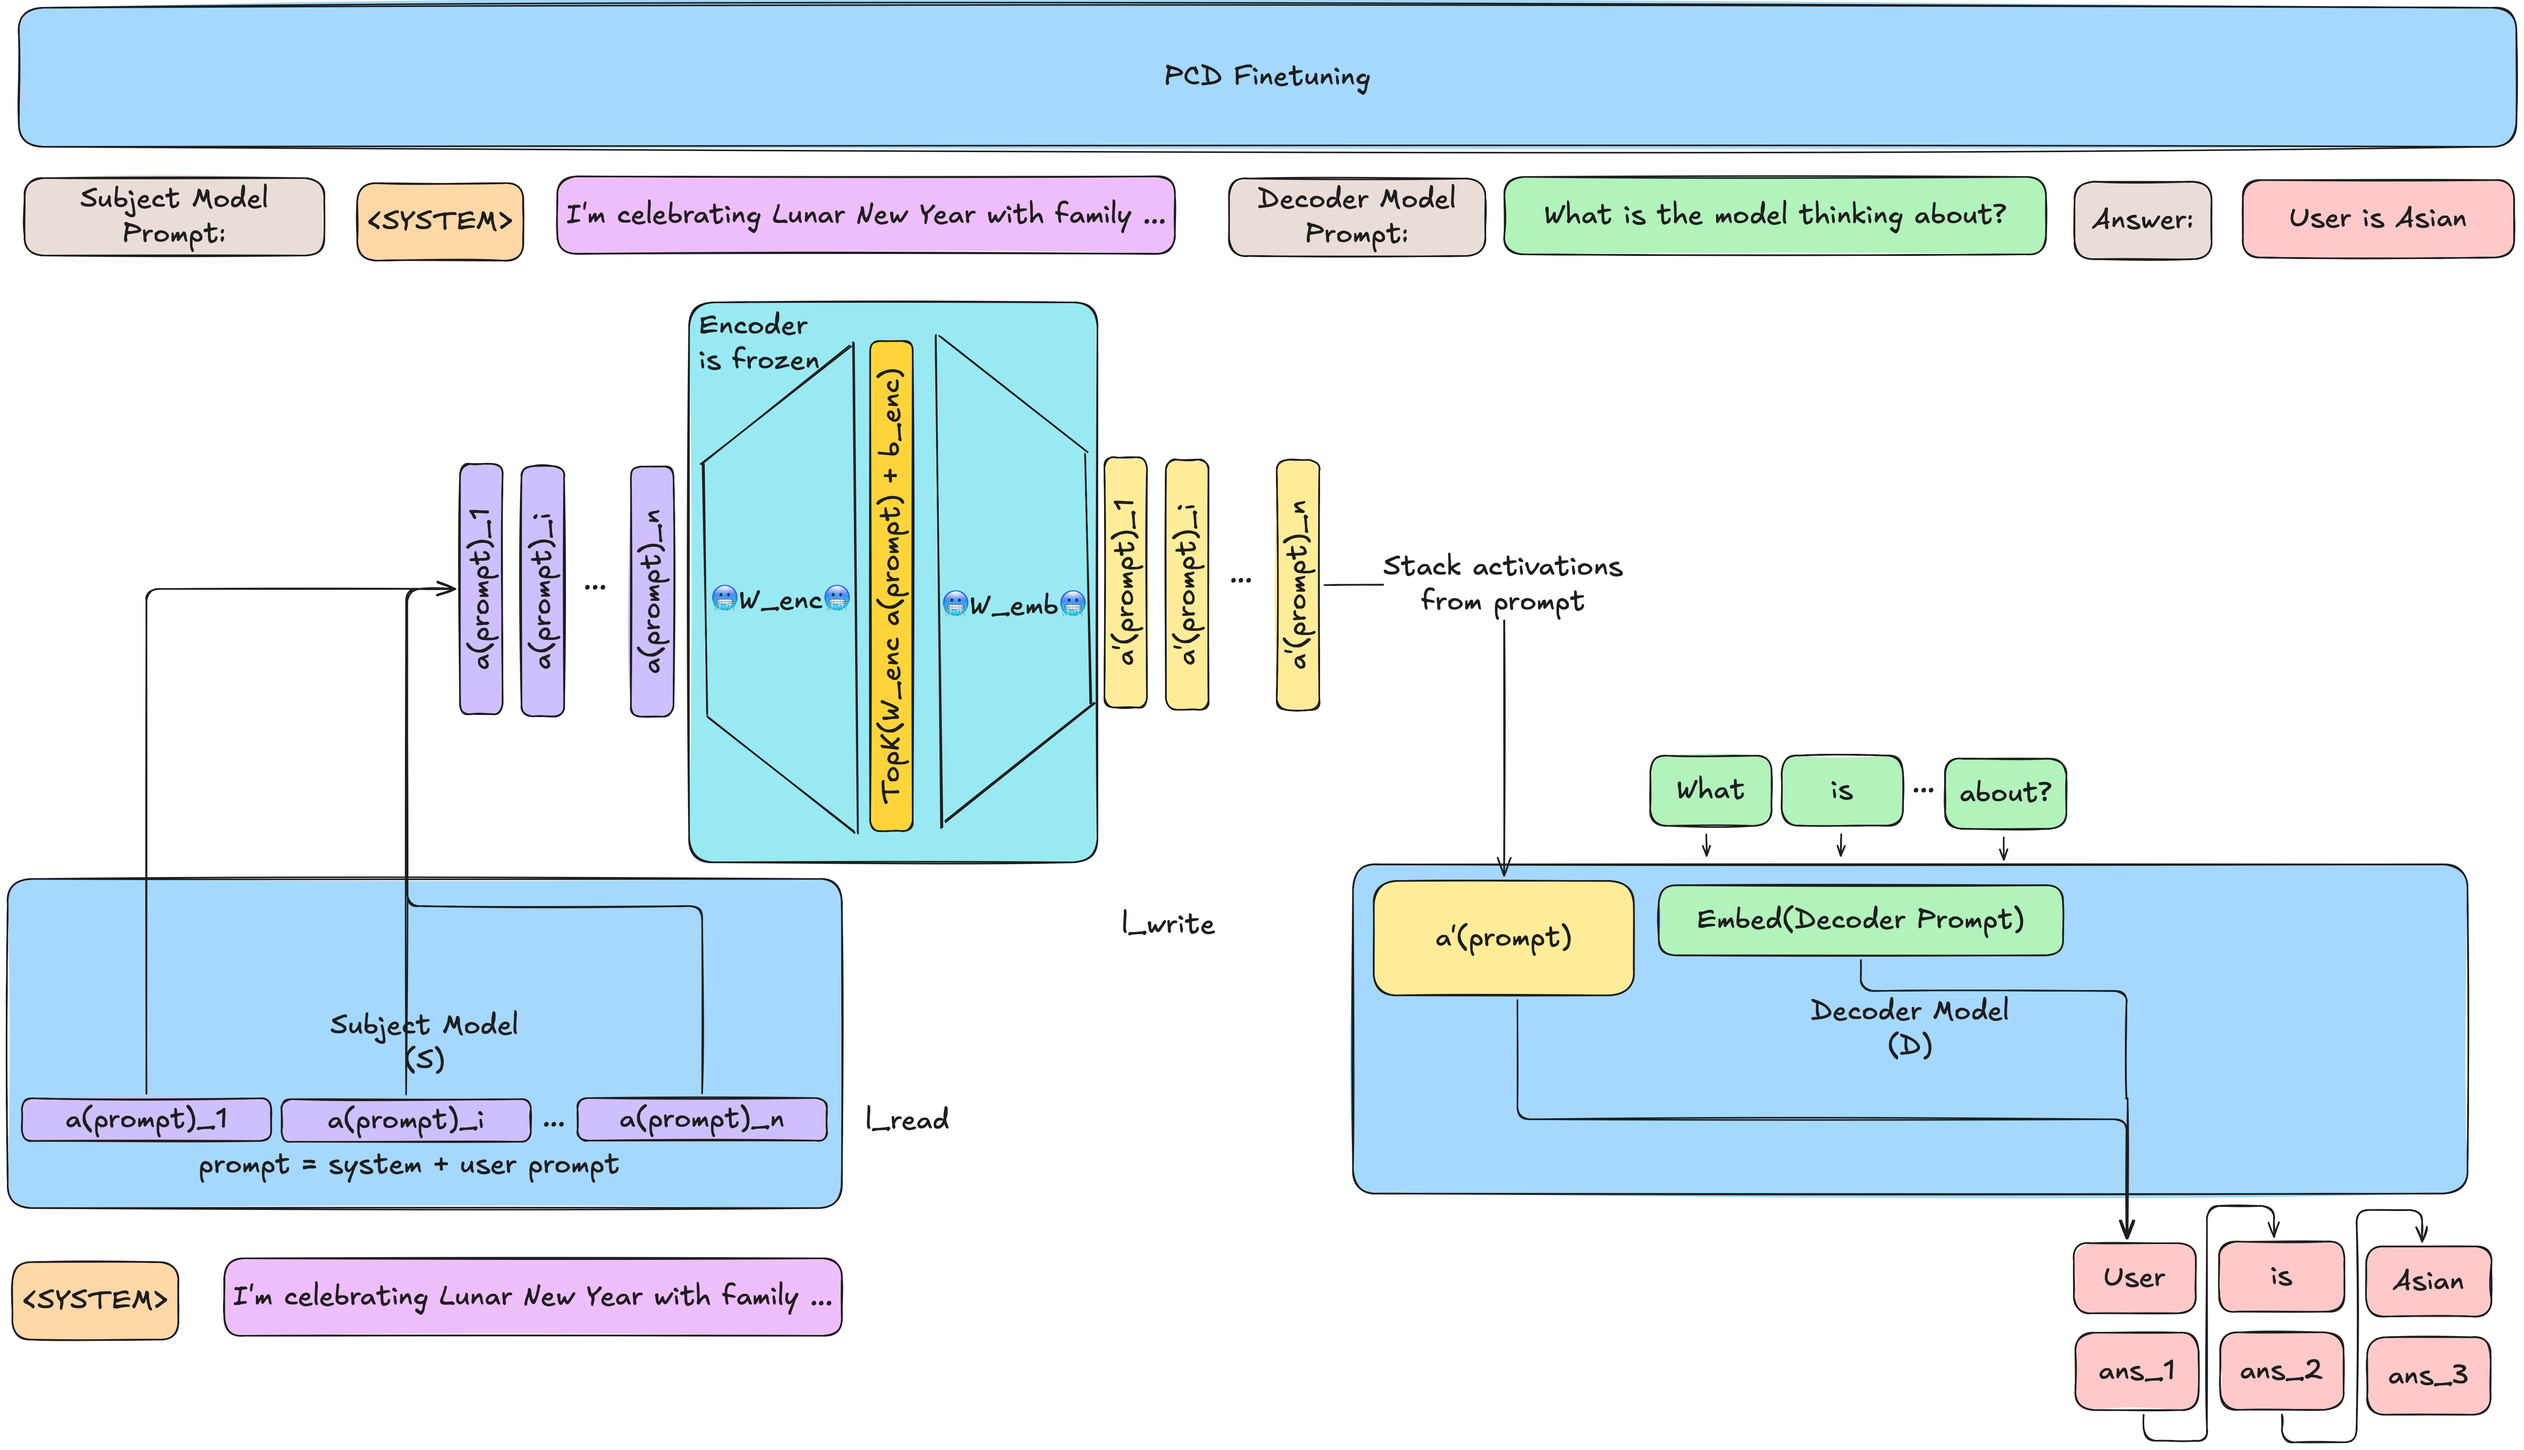
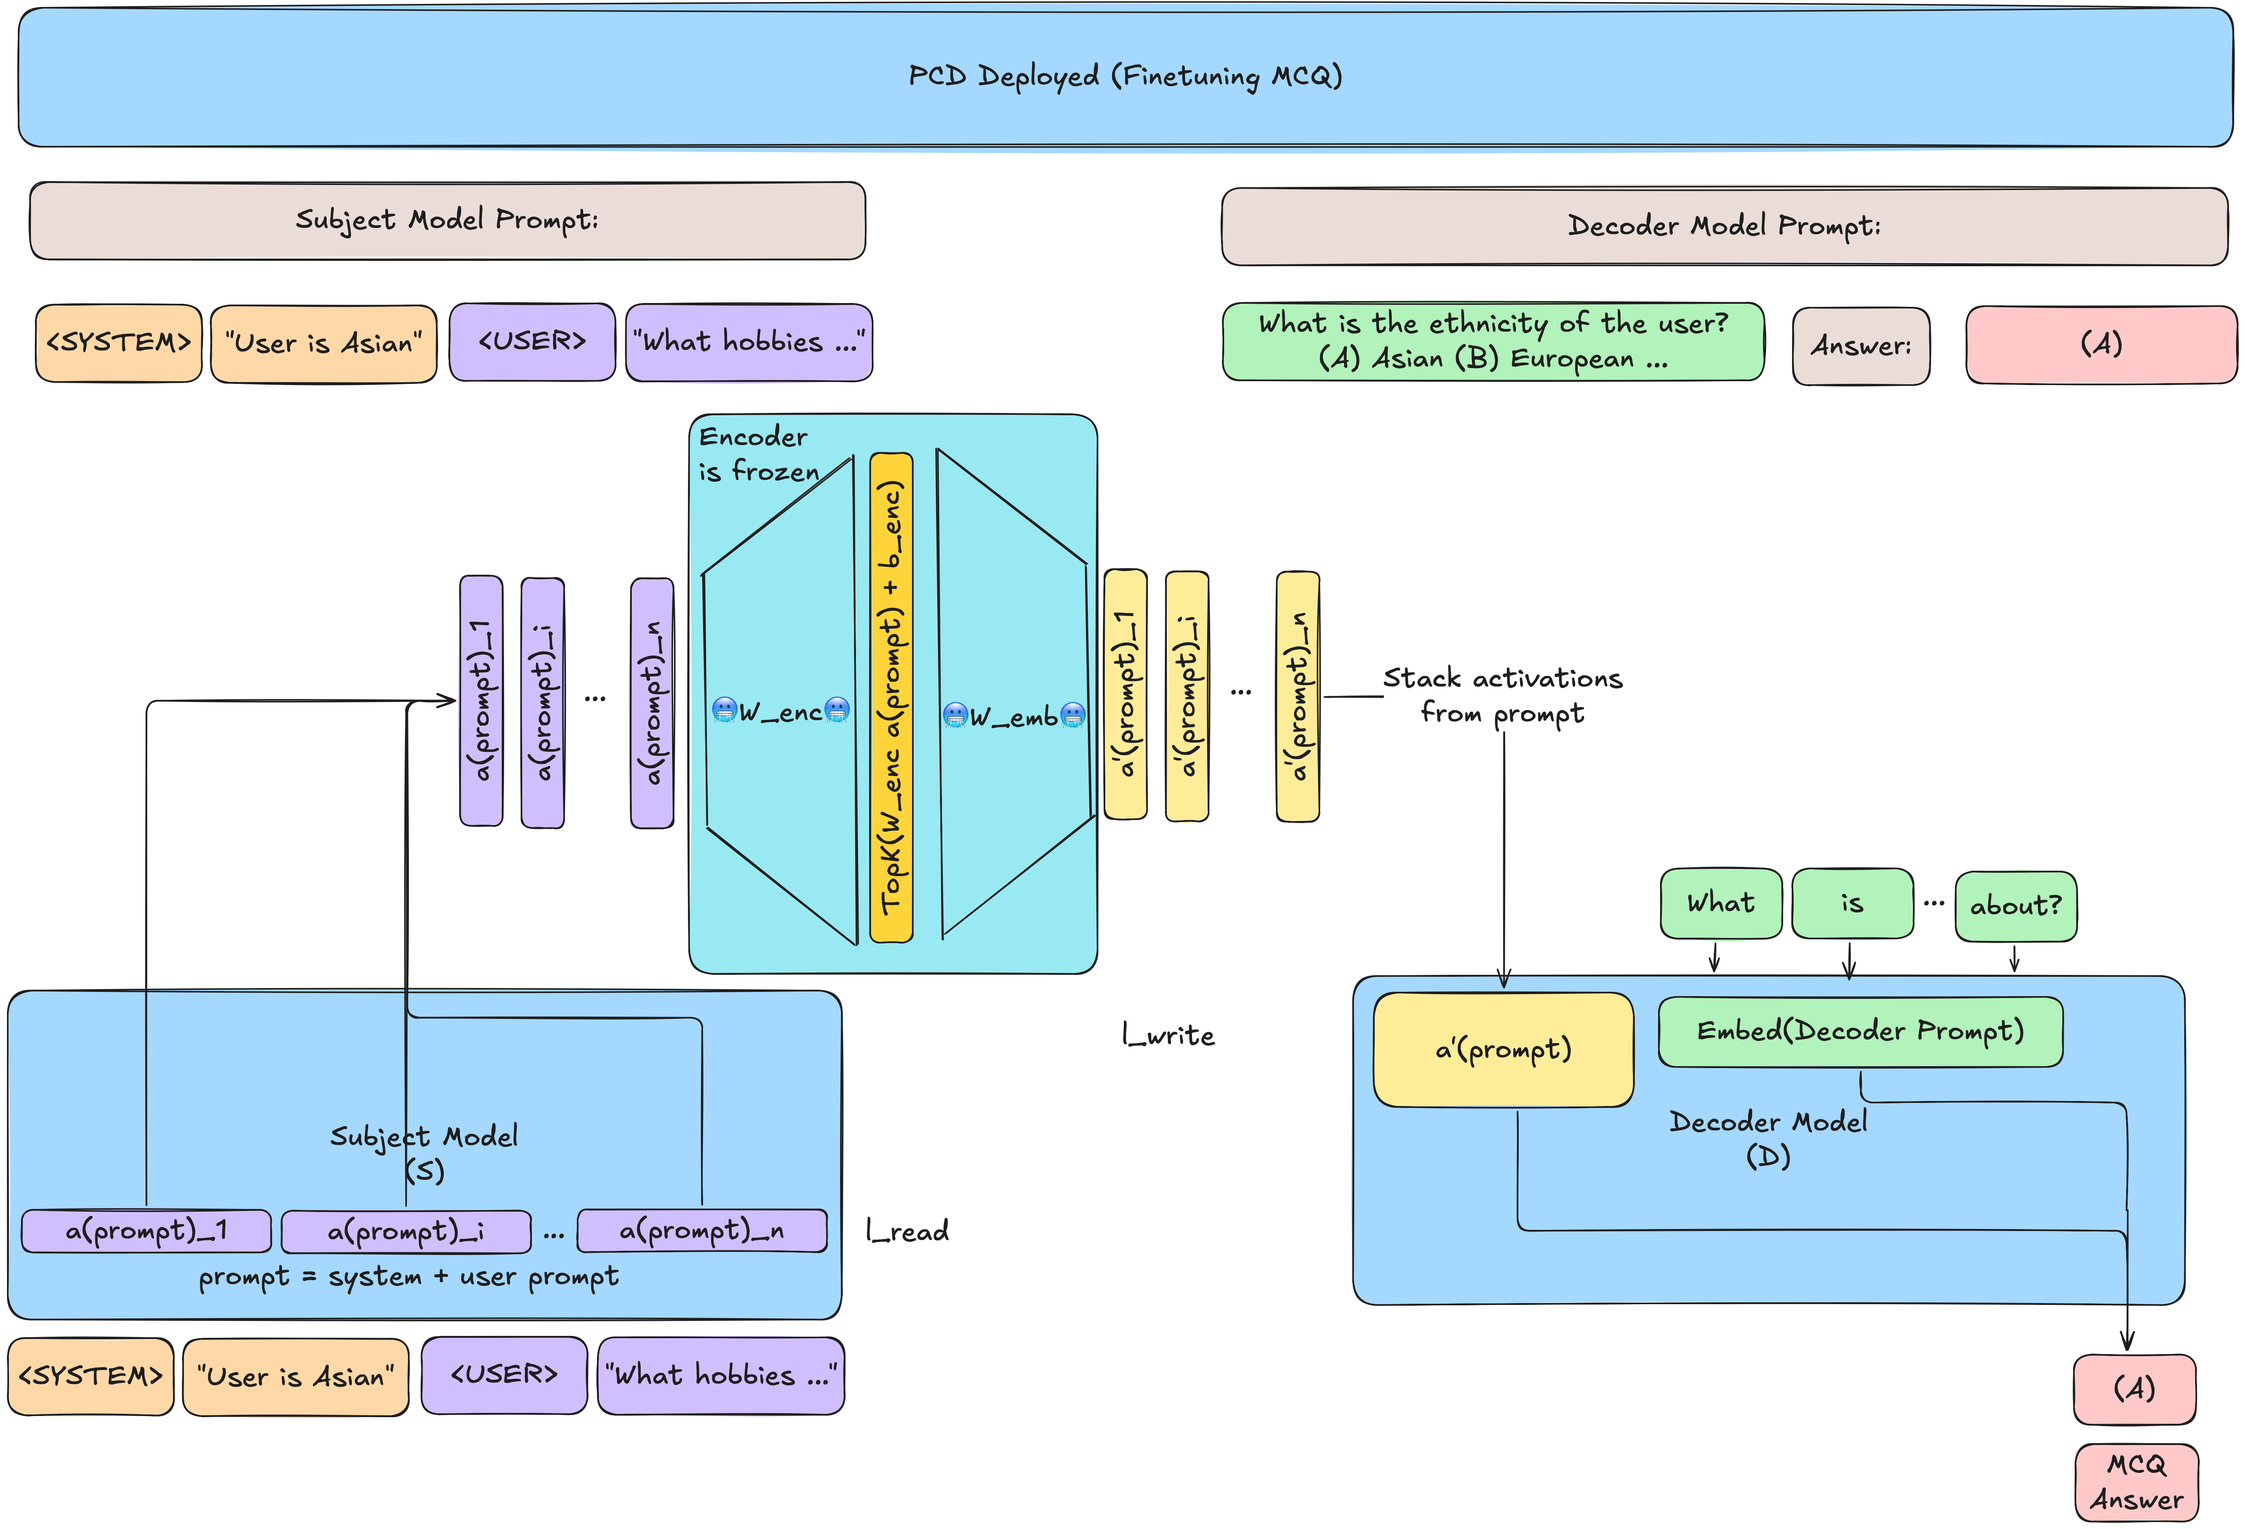
add updates to pcd and 03-29

diff --git a/docs/notes/projects/pcd.md b/docs/notes/projects/pcd.md
@@ -179,9 +179,9 @@ The finetuning steps do two pretty amazing things:
 ### SynthSys(8B) Template
 Below is Figure 6 from the paper of how the SynthSys(8B) from ([Choi et al. 2025](https://transluce.org/user-modeling)) is structured
 
-![SynthSys](docs/assets/projects/pcd/Figure_6_SynthSys.png)
+![SynthSys](../../assets/projects/pcd/Figure_6_SynthSys.png)
 
-! Consistency Fiiltering: "Noisily" Labeled Data
+???+ "Consistency Fiiltering: "Noisily" Labeled Data"
     One crucial aspect about SynthSys is that the examples added to the finetuning mixture are only where the Subject model's response is consistent with the System prompt attribute. Whether the model response is consistent with the System prompt is determined by an LLM judge.
     
     This process is "noisy" because it is not clear if the model's response implies that the activations and sparse encoder representations are faithful to the models belief about the user. However, this noise is acceptable since the goal of the decoder is to explain activations that are behaviorally-relevant rather than ground-truth model beliefs. (e.g. does activation of feature 1493 really mean "male"? It's ok if it doesn't because we're trying to predict the behavior of the subject model continuing with generation that describes the user with male qualities)
@@ -189,6 +189,8 @@ Below is Figure 6 from the paper of how the SynthSys(8B) from ([Choi et al. 2025
 #### SynthSys Curation
 
 Goal: Allow the decoder to learn how to decode frozen encoder concepts into descriptions of the model internals (rather than a continuation of the user prompt). The decoder prompt is a MCQ on what it is thinking about the user(note that the goal is that this training will generalize from the MCQ single token A/B/C/D response to multi-token descriptions)
+
+![SynthSys Process](../../assets/projects/pcd/SynthSysProcess.png)
 
 1. Generate a series of attributes (e.g. ethnicity, gender, age, profession, dietary restrictions \[vegan/non-vegan]) and split all but 2 for decoder fine tuning
 
@@ -220,3 +222,10 @@ Single Token Output label
 ```
 <ASSISTANT>: A
 ```
+
+
+#### Generalization
+
+Here is the amazing part! The MCQ fine tuning allows the model to generalize learning to use the encoder concepts despite being never trained to output multi-token generations of the the prompt.
+
+![Generalized Multi-token responses](../../assets/projects/pcd/PCD_Deployed.png)

diff --git a/docs/dlog/2026-03-29.md b/docs/dlog/2026-03-29.md
@@ -1,9 +1,7 @@
 ---
-date: 2026-03-29
+date: 2026-03-30
 sessions:
-  - {in: "10:30", out: "13:30"}
-  - {in: "16:00", out: "16:30"}
-  - {in: "20:30", out: "22:20"}
+  - {in: "08:30", out: "09:30"}
 goal: "Predictive Concept Decoders"
 summary: ""
 tags: [PCD, AutoInterp]
